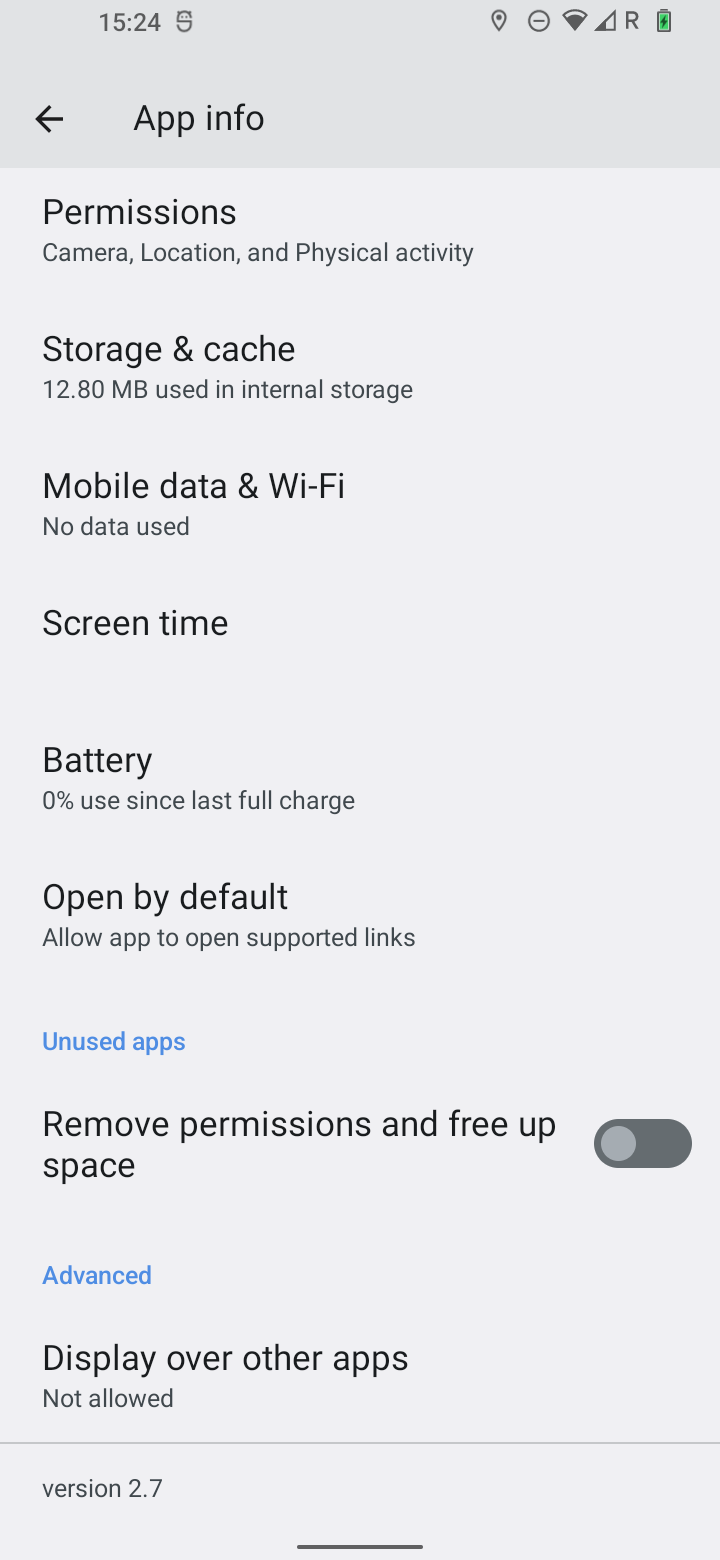
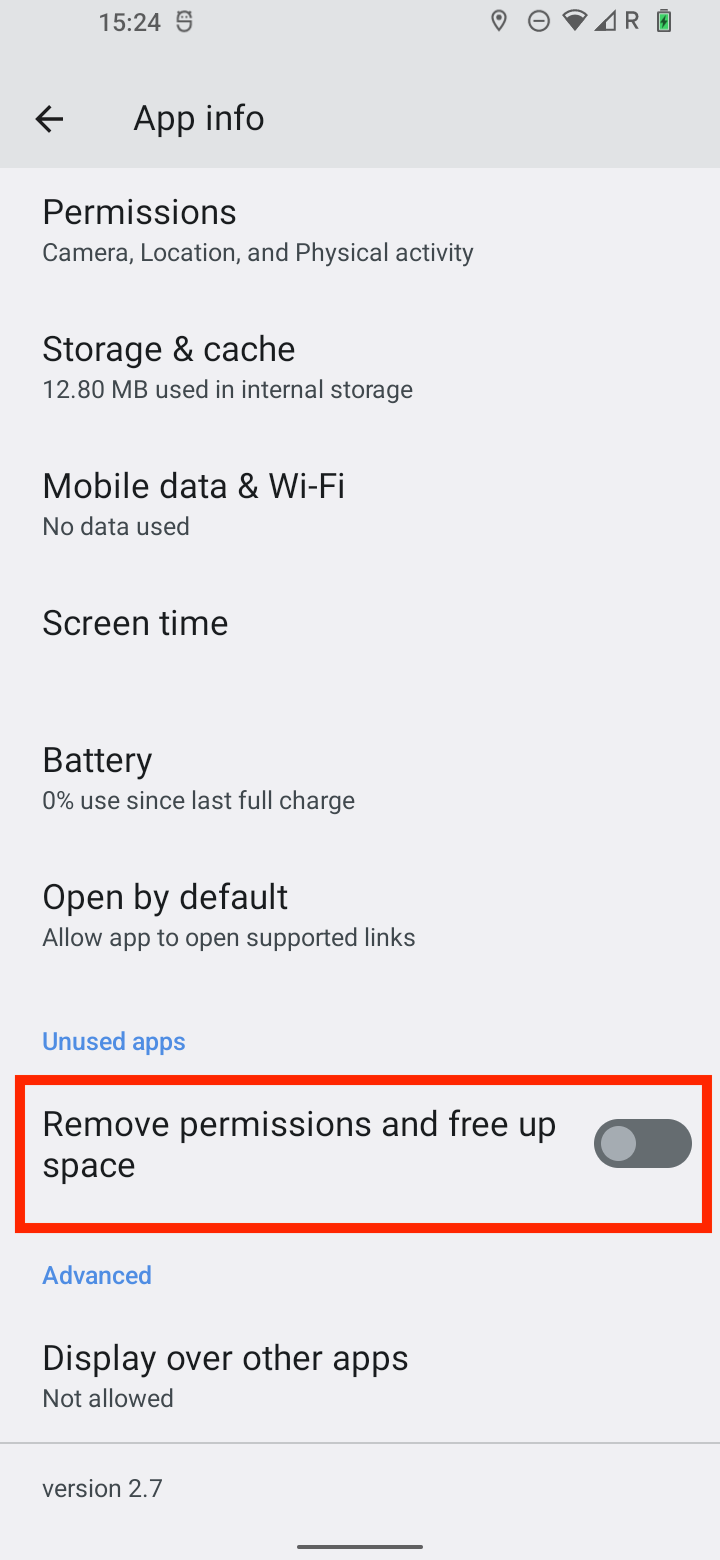
ema app part

Changed region(s): [[0.0, 0.6769, 1.0, 0.8]]

diff --git a/docs/source/EMA.rst b/docs/source/EMA.rst
@@ -68,7 +68,7 @@ now look for "battery optimization" and select it
 then select the "Unrestricted" option according to the below image, This step will guarantee that the JTrack Social app will not be restricted by the phone application system (Android).
 |
 
-.. image:: image/Social/social_6.png
+.. image:: image/EMA/EMA_6.png
    :scale: 40 %
    :align: center
 
